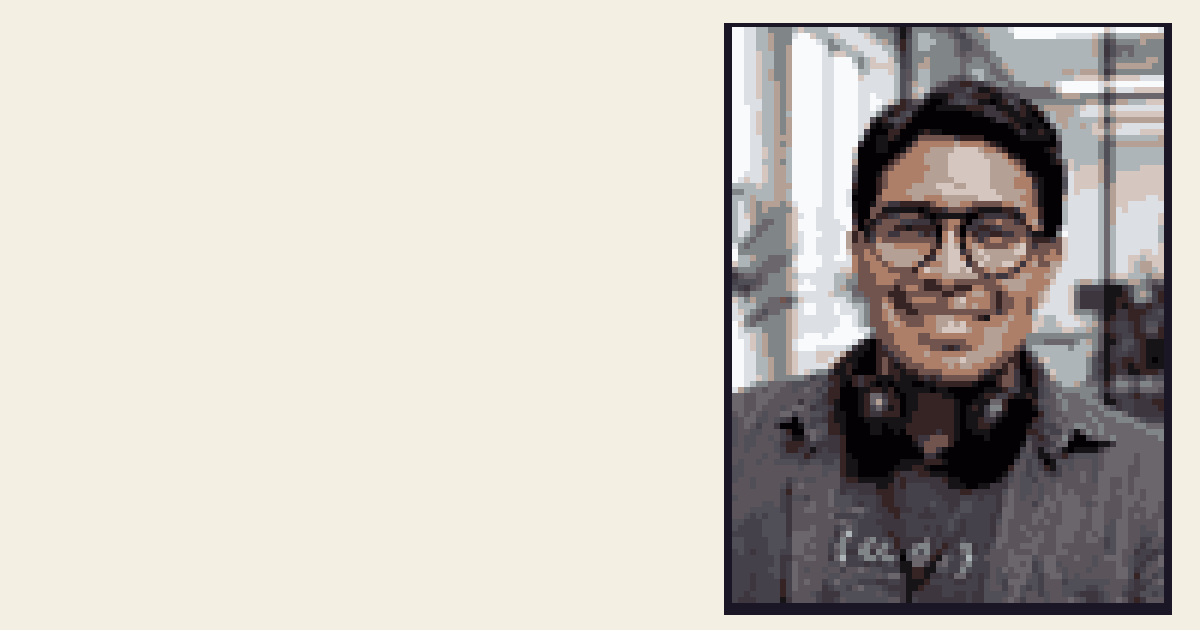
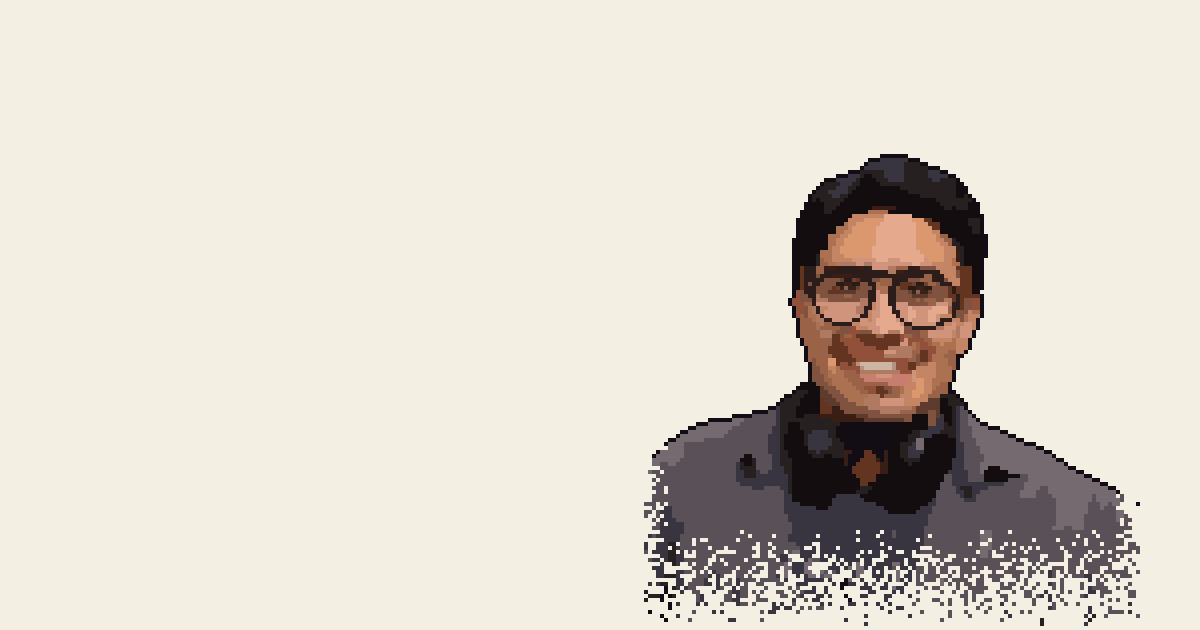
feat: pixel art portrait with photo reveal on hover
Replace the portrait with a pixel art version traced from the photo
(124x124, no frame, pixel dissolve at the bottom, dark-mode outline
variant). On hover, tap or Enter it de-pixelates into the cut-out
photo and back; reduced motion just swaps. Update OG image and icons.

Changed region(s): [[0.5242, 0.0302, 0.9867, 0.9952]]

diff --git a/README.md b/README.md
@@ -33,4 +33,4 @@ Fill the remaining `TODO`s in `src/data/site.ts`: yo.adv handle and videos, Popb
 
 - Tokens and components (`jp-*`): `src/styles/global.css` — from the "Joseph León" design system.
 - Projects: `src/data/projects.ts`. Pages: `src/views/*` (one view per page, `lang` prop), thin route files in `src/pages/`.
-- Photo: `public/joseph-pixel.png` (72×96, 16 colors, ×10). Source variants in `design/`.
+- Portrait: `src/components/PortraitSwap.astro`. Pixel art `public/joseph-pixel.png` (124×124, no frame, transparent, pixel dissolve at the bottom; `joseph-pixel-dark.png` for dark mode; shown at ×4 / ×3 / ×2) turns into `public/joseph-photo.webp` (same framing) on hover, tap or Enter, de-pixelating in steps; fades only with reduced motion. Iterations in `design/`.
